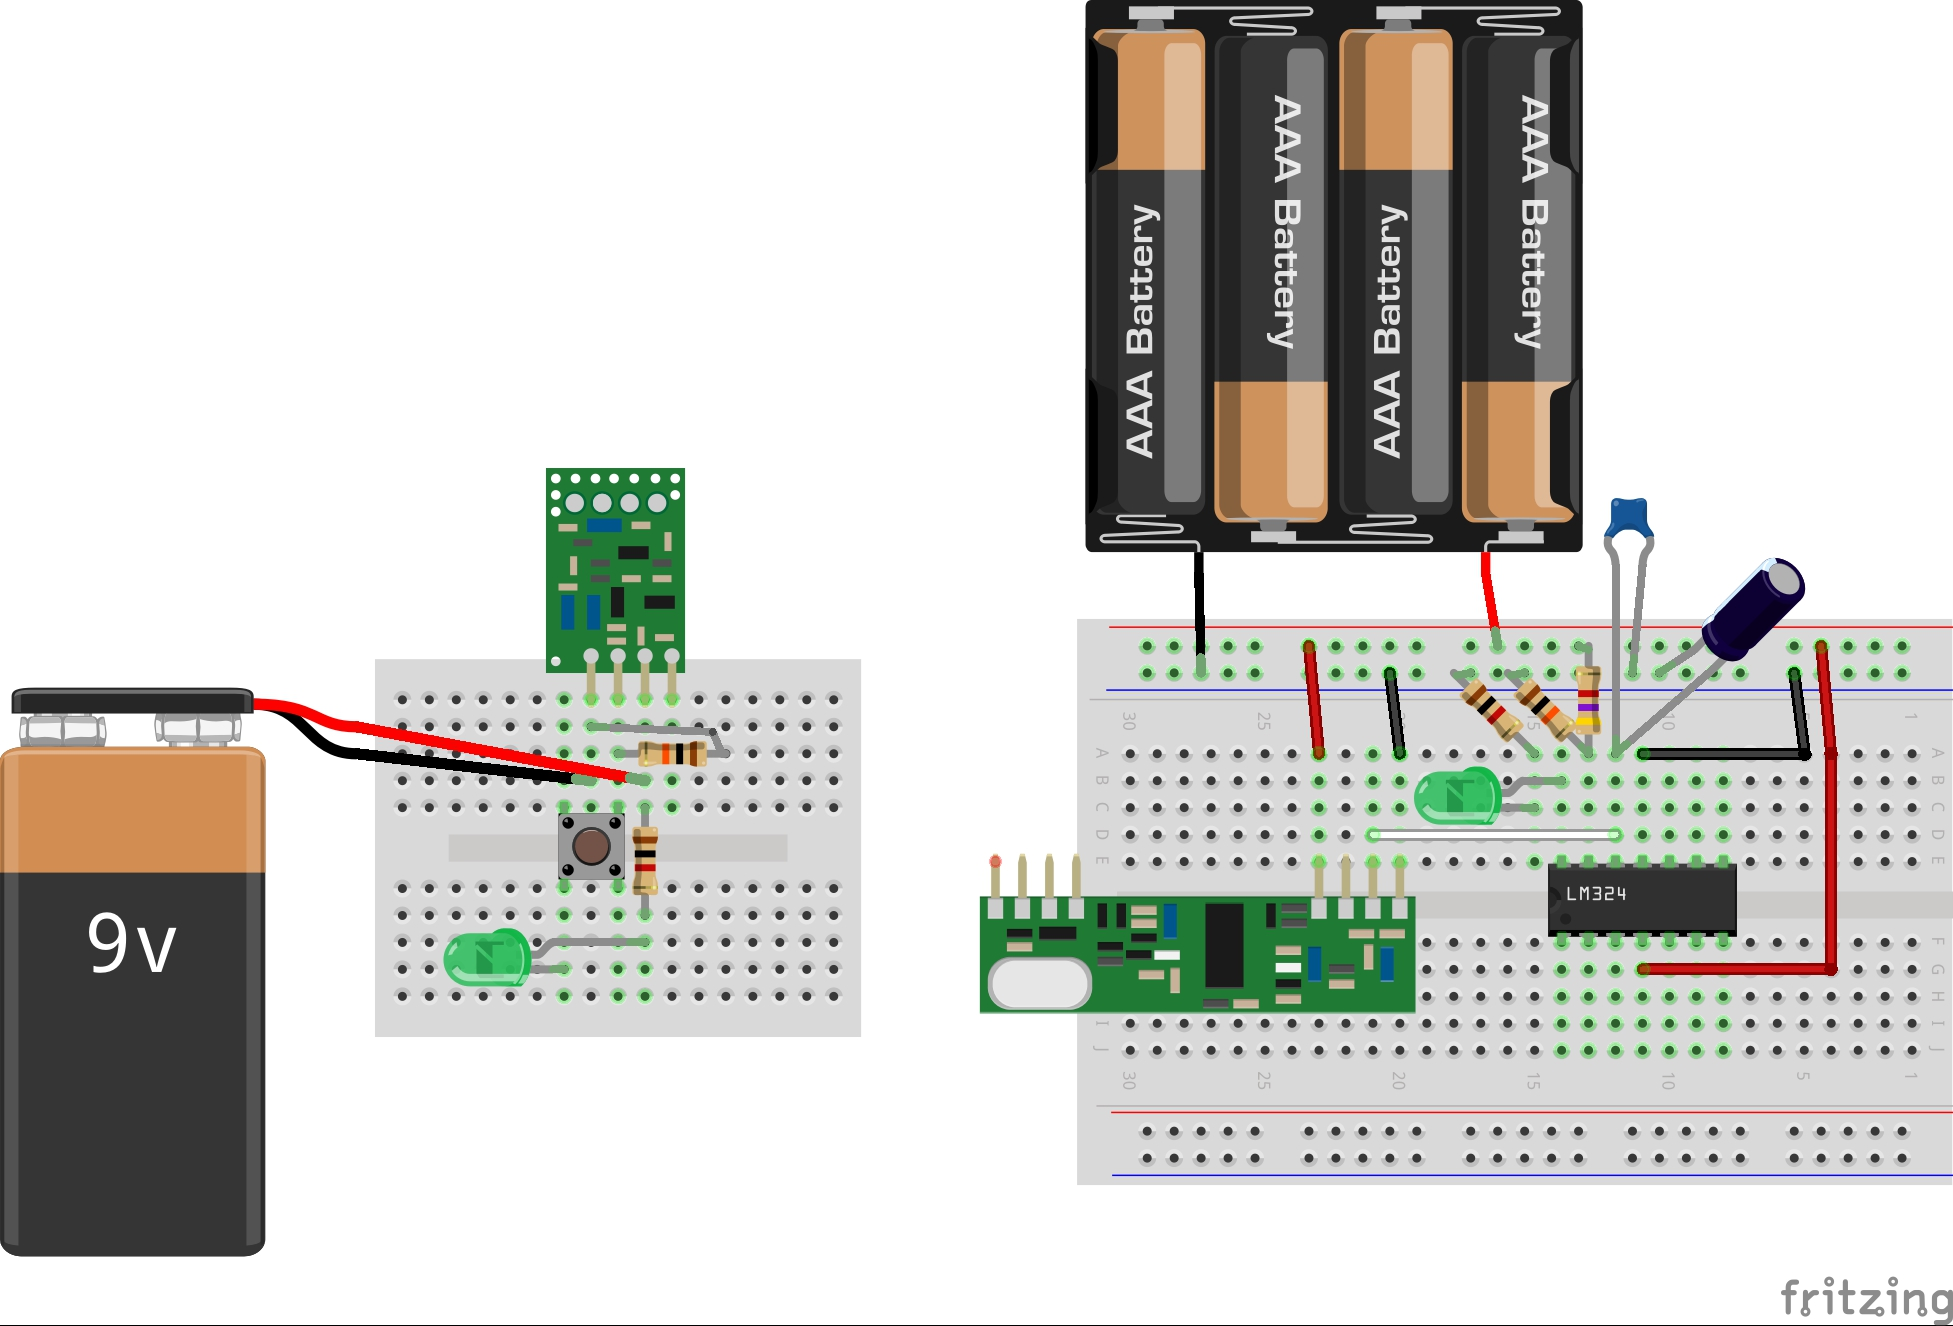
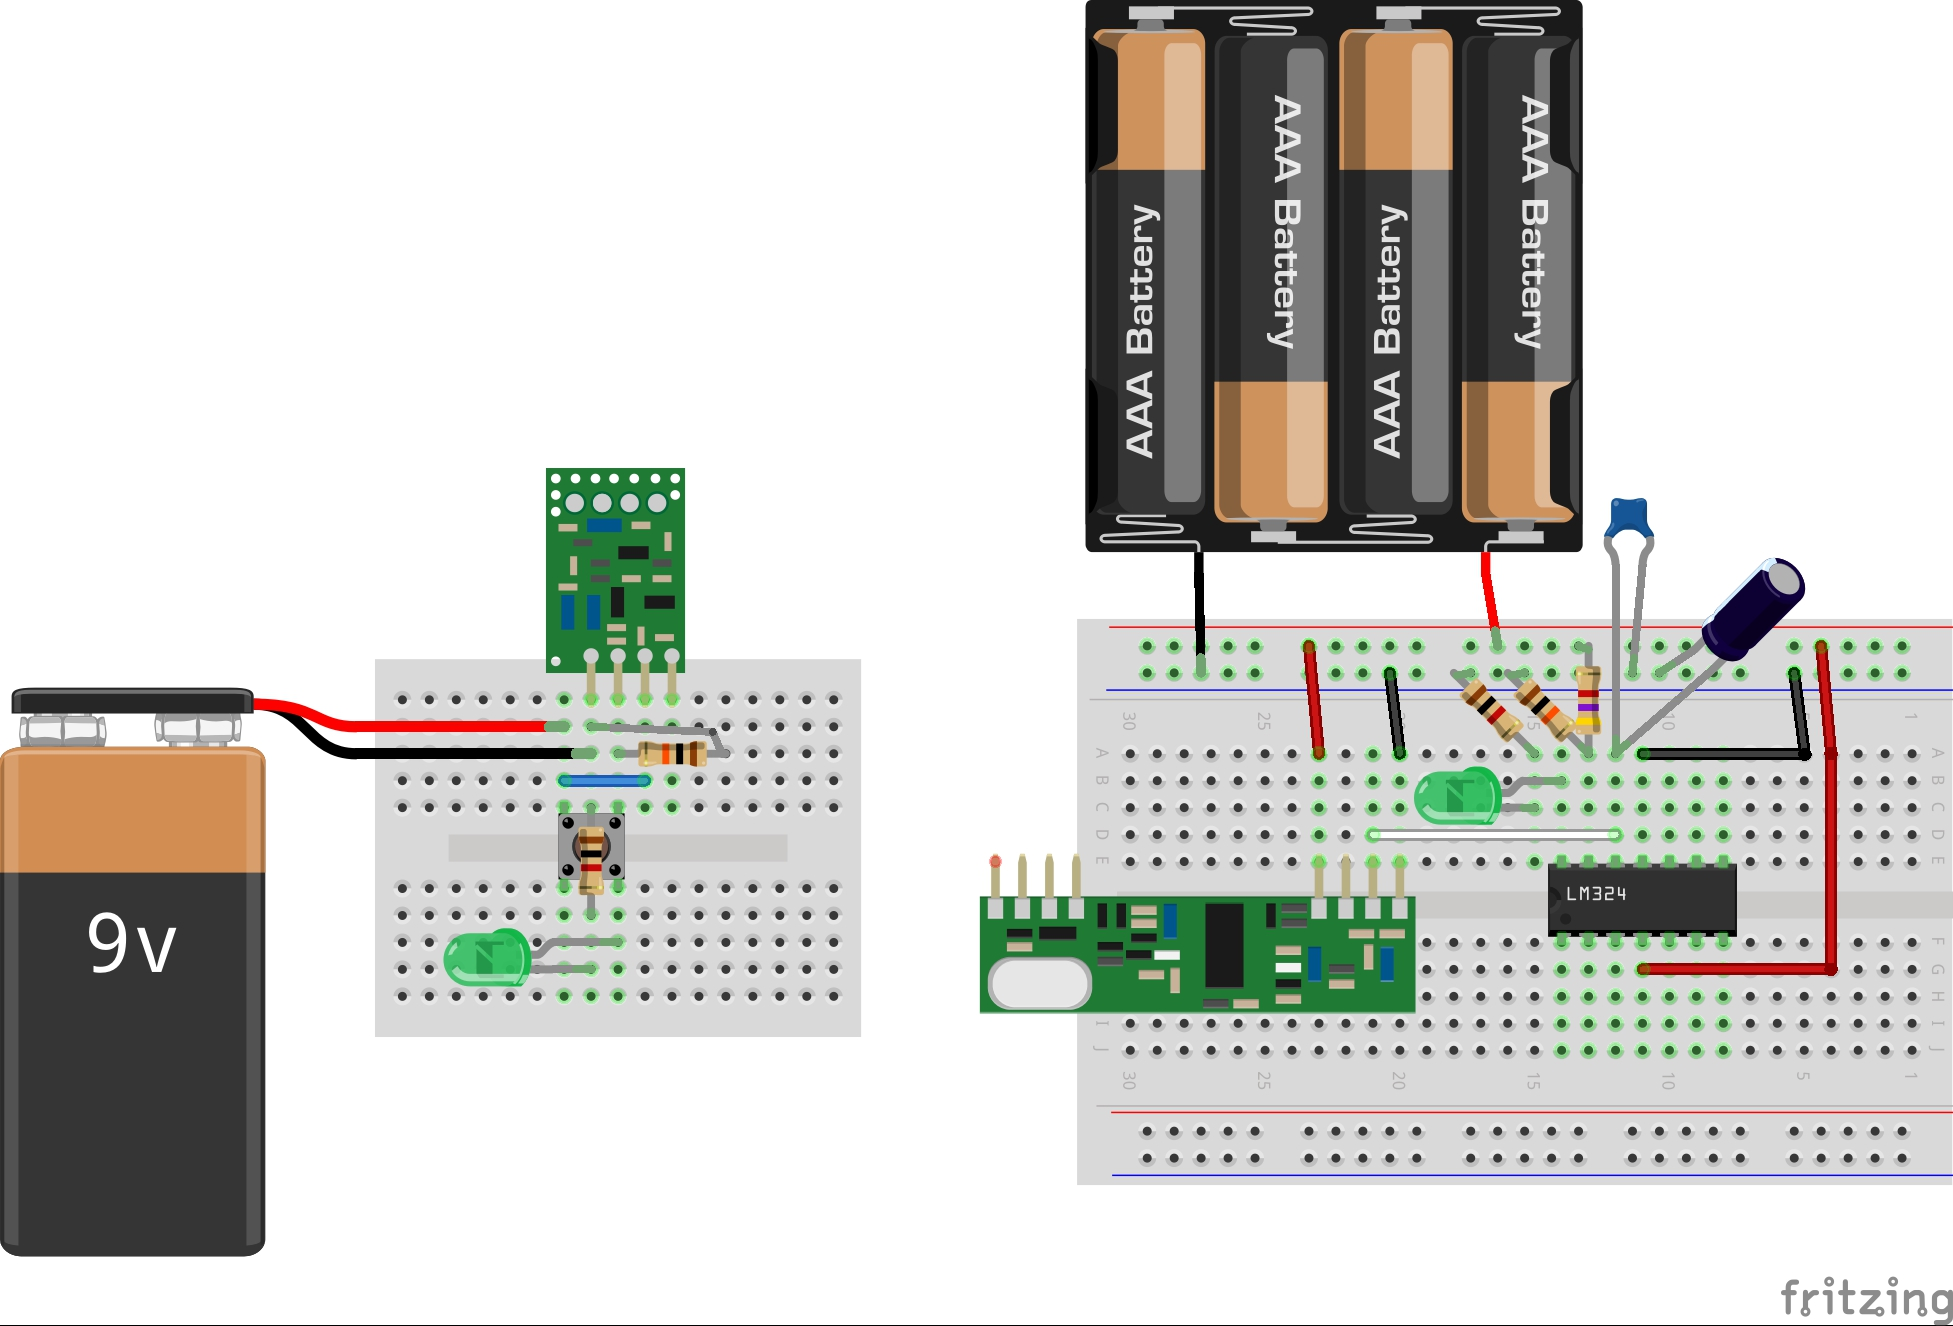
[RFSwitch] add low-power transmitter variation

Changed region(s): [[0.1874, 0.5256, 0.3436, 0.7421]]

diff --git a/Radio/LPD433/RFSwitch/README.md b/Radio/LPD433/RFSwitch/README.md
@@ -26,10 +26,19 @@ Before diving into using higher-level data protocols over the RF link, I was ins
 
 So in this circuit, there's no microcontroller or anything fancy, just the RF modules communicating with each other and transmitting a button press to blink a remote LED.
 
+### Module Specifications
+
+As much as I can glean from available datasheets:
+
+* Frequency: 433Mhz
+* Modulation: ASK
+* Receiver Data Output: High - 1/2 Vcc, Low - 0.7v
+* Transmitor Input Voltage: 3-12V (high voltage = more transmitting power)
+
 ### Sender
 
 Simply has a button wired up with LED indicator. When not pressed, the Data line is pulled low. When the button is pressed, it pulls the data pin high.
-The LEd incdicator on the sender-side is mrely to confirm that a data signal was raised.
+The LED indicator on the sender-side is merely to confirm that a data signal was raised.
 I've wired up the sender to a 9V battery.
 
 ### Receiver
@@ -50,9 +59,24 @@ Next up I'll be looking at using the RF links with an Arduino. I'm interested to
 
 ### Construction
 
+Here's the breadboard layout and schematic for the simple RF switch:
+
 ![The Breadboard](./assets/RFSwitch_bb.jpg?raw=true)
 
 ![The Schematic](./assets/RFSwitch_schematic.jpg?raw=true)
+
+### Modification - Low-Power Transmitter
+
+
+Looking at the transmitter-side, it remains powered up and keeping the channel open even when there's no button press.
+Perhaps we could only power up the transmitter when it is time to send a button press?
+
+This turns out to be very simple - just alter the transmitter layout so the pushbutton is a power switch for the transmitter configred for continuous transmission.
+From the little testing I've done, this works just fine!
+
+![The Breadboard](./assets/RFSwitch_LowPowerTx_bb.jpg?raw=true)
+
+![The Schematic](./assets/RFSwitch_LowPowerTx_schematic.jpg?raw=true)
 
 ## Credits and References
 
